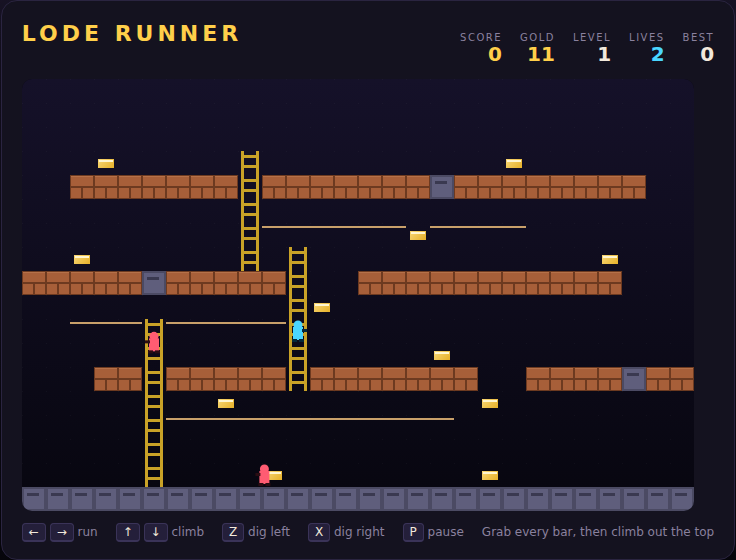
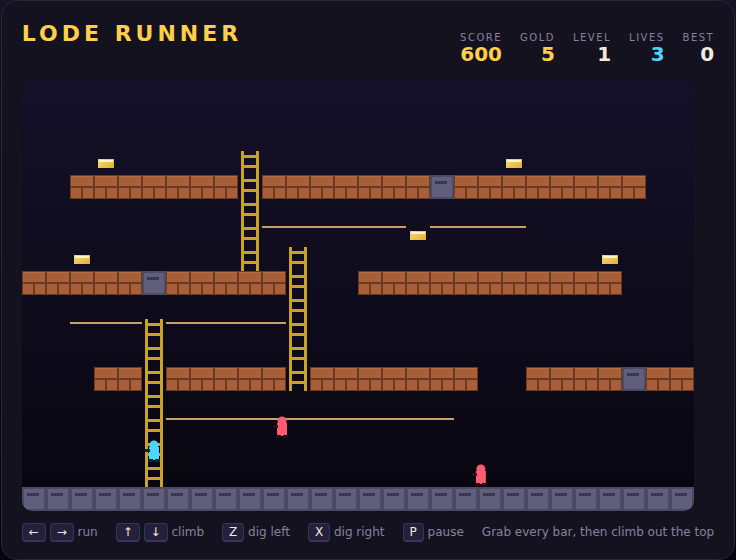
Document Lode Runner and add it to the game browser
- DESIGN.md covering the tile-locked motion model, level format, guard
  routing and the assumptions taken where the brief was open
- README.md with the rules and controls
- Register the game in game-browser/src/assets/games.json and mark it
  Complete in the repo index
- Move level 1's first guard up a floor so the opening is survivable

diff --git a/LodeRunner/game.js b/LodeRunner/game.js
@@ -68,12 +68,12 @@ const LEVELS = [
         '#####@#####H..###########...',
         '...........H$...............',
         '..---H-----H................',
-        '.....H.....H.....$..........',
+        '.....H.....H..G..$..........',
         '...##H#####H#######..####@##',
         '.....H..$..........$........',
         '.....H------------..........',
         '.....H......................',
-        '.P...H....$...G....$.....G..',
+        '.P...H....$........$.....G..',
         '@@@@@@@@@@@@@@@@@@@@@@@@@@@@',
     ],
     [

diff --git a/LodeRunner/DESIGN.md b/LodeRunner/DESIGN.md
@@ -1,0 +1,145 @@
+# Lode Runner — Design
+
+How the code works, why it is shaped this way, and the calls that were made
+where the brief left room for interpretation.
+
+## Concept
+
+A single-screen platform puzzler on a fixed tile grid. The runner has no
+weapon: the only tool is a drill that opens a temporary hole in the brick
+floor either side of them. Guards chase relentlessly, so the game is about
+routing — deciding the order to sweep up the gold, and where to leave a hole
+so the guard chasing you drops into it instead of onto you.
+
+A level is finished when every gold bar has been collected — that reveals the
+escape ladder — and the runner climbs to the top row of the screen.
+
+## Mechanics
+
+| Element | Behaviour |
+|---|---|
+| Brick `#` | Solid, and the only tile that can be drilled |
+| Stone `@` | Solid and undrillable — the frame of every level |
+| Ladder `H` | Climbable up and down; standing on the top tile is supported |
+| Rope `-` | Hang and traverse sideways; press down to let go |
+| Gold `$` | Collected by passing through the tile: +100 |
+| Escape ladder `E` | Inert until the last bar is taken, then a working ladder |
+
+- **Falling.** Anything not standing on a solid tile, a ladder (its own tile or
+  the one below), a rope, or the head of a trapped guard falls. You cannot
+  steer mid-fall — the commitment is what makes a dug hole dangerous to you as
+  well as to the guards.
+- **Digging.** `Z` / `X` drill the brick diagonally below-left / below-right.
+  The drill needs firm ground under your feet and a clear tile above the
+  target, so you cannot dig from a ladder, from a rope, or in mid-air.
+- **Holes heal.** A hole fills back in after `HOLE_TIME` (5 s), and the last
+  30% of that is drawn as the brick growing back. Anything still standing in
+  the tile when it closes is crushed: a guard respawns at its start marker, the
+  runner loses a life.
+- **Trapped guards.** A guard that drops into a hole flounders for `TRAP_TIME`
+  (2.5 s), then climbs out to whichever side is open, preferring the side the
+  runner is on. While it is down there its head is solid ground — running
+  across a trapped guard is a legitimate route.
+- **Guard routing.** Each guard replans with a breadth-first search over the
+  move graph (walk / climb / drop, no digging) whenever it lands on a tile, and
+  takes the first step of the shortest route to the runner's tile. If no route
+  exists it shuffles horizontally toward the runner instead, which is what
+  keeps guards pressing you across a gap they cannot cross.
+- **Scoring.** 100 per gold bar, 500 per level cleared. The best score of the
+  session is kept in `localStorage` under `lode-runner-best`.
+- **Lives.** Three. A death reloads the current level from scratch — gold,
+  guards and holes all reset — but the score carries over.
+
+## Controls
+
+| Key | Action |
+|---|---|
+| ← / → or A / D | Run, climb sideways along a rope |
+| ↑ / ↓ or W / S | Climb a ladder, drop off a rope |
+| Z or `,` | Dig left |
+| X or `.` | Dig right |
+| Space | Start, or restart after a game over |
+| P | Pause / resume |
+
+## Code shape
+
+`game.js` is one classic (non-module) script, matching the other games in this
+repo, so every piece of state is a plain global the Playwright specs can read.
+
+### Tile-locked motion
+
+Entities are never at an arbitrary point on the map: they sit exactly on a
+tile, or they are travelling in a straight line between two adjacent tiles.
+Every decision — which way to run, whether gravity takes over — is made at the
+moment an entity lands on a tile, by `decidePlayer` / `decideGuard`.
+
+`advance(entity, dt, decide, onArrive)` slides an entity toward its target and,
+when it lands, spends the *leftover* time on the next move. That has two
+consequences worth keeping:
+
+- `step(dt)` is exact for any `dt`. There is no per-frame rounding error to
+  accumulate, so the tests can simulate a whole level deterministically.
+- Tile coordinates are whole numbers between moves. This is load-bearing:
+  every grid lookup indexes `grid[r][c]` directly, so an entity left at a
+  fractional coordinate would read `undefined` and walk through the world. The
+  "landed a hair short" branch in `advance` exists to guarantee it, and the
+  regression it fixes was found by the route-finding bot in the test suite.
+
+`step(dt)` slices time into 1/60 s sub-steps so collisions and hole timers are
+sampled at a fixed rate no matter how the browser schedules frames.
+
+### Level format
+
+Each level is 18 rows of 28 characters using the legend above, plus `P` for the
+runner's start and `G` for a guard. `loadLevelData` strips the spawn markers
+out of the playable grid and turns them into entities, so the grid only ever
+holds terrain. Sandbox levels built by the tests go through exactly the same
+path, which is why a spec can exercise one mechanic on a bare floor.
+
+### Rendering
+
+`draw()` repaints from scratch each frame: gradient backdrop, terrain tile by
+tile, hole refill progress, guards, then the runner on top. The hidden escape
+ladder draws nothing until `exitRevealed`, at which point it comes back in a
+different colour from the ordinary ladders so it reads as the way out.
+
+## Testing
+
+`tests/lode-runner.spec.js` drives the real page. Beyond the per-mechanic
+specs, two tests are about the levels rather than the code:
+
+- **Reachability.** For every level, a breadth-first search over the same moves
+  a player has — including "drill the brick below and drop through it" — must
+  reach every gold bar and the top row from the start marker.
+- **Solvability.** A route-finding bot plays the actual game: it replans each
+  frame, holds the same keys a player would, digs where the route calls for it,
+  and has to reach the `won` state having cleared all three levels. It plays
+  the full game in about a second of wall-clock time.
+
+## Assumptions
+
+The brief left these open; the simpler reading was taken each time and is
+recorded here.
+
+1. **Branch name.** The task asked for a branch named after the game
+   (`lode-runner`), but this session's standing instruction is to develop and
+   push only on `claude/loving-euler-h0zmyv`. The stricter instruction won, so
+   the work lives on that branch.
+2. **Three levels.** Enough to show progression and a win state without
+   padding. `LEVELS` is a plain array — appending a fourth needs no code
+   changes, only a layout that passes the reachability spec.
+3. **Guards do not carry gold.** In the original arcade game guards can pick
+   up a bar and drop it later. That is a second inventory to model and to
+   render, and it can strand gold in unreachable places; guards here ignore it.
+4. **Death reloads the whole level.** Gold already banked stays on the
+   scoreboard, but the level resets. Tracking per-bar collection across lives
+   would make the escape condition depend on history rather than the board.
+5. **Guards cannot dig.** True to the original, and it keeps holes as a tool
+   that belongs to the player alone.
+6. **Input priority is up, down, left, right.** When two keys are held, the
+   first legal move in that order wins, so a diagonal press at the foot of a
+   ladder climbs rather than running past it.
+7. **One shared hole timer.** Every hole heals after the same 5 s regardless of
+   depth or what is standing in it.
+8. **No level editor or high-score table.** Only the single best score is
+   persisted, matching the other games in this repo.

diff --git a/LodeRunner/README.md b/LodeRunner/README.md
@@ -1,0 +1,48 @@
+# Lode Runner
+
+A dig-and-collect platform puzzler built with plain HTML5 canvas and
+JavaScript — no build step, no dependencies. Sweep every gold bar off the
+girders while guards hunt you across the level, then climb out the top.
+
+![Lode Runner screenshot](screenshot.png)
+
+## How to play
+
+Open `index.html` in any modern browser. Press **Space** (or click **Start
+Run**) to begin.
+
+| Key | Action |
+|---|---|
+| ← / → or A / D | Run, and move along a rope |
+| ↑ / ↓ or W / S | Climb a ladder, or drop off a rope |
+| Z or `,` | Dig the brick down and to your left |
+| X or `.` | Dig the brick down and to your right |
+| Space | Start, or restart after a game over |
+| P | Pause / resume |
+
+- Collect **every gold bar** on the level and the **escape ladder** appears in
+  green. Climb it to the top row to move on. 100 points a bar, 500 for the
+  level.
+- You have **no weapon**. The drill is the whole game: open a hole in the
+  brickwork and the guard chasing you drops in and flounders for a few
+  seconds. Run across their head while they are down there.
+- **Holes heal over** after about five seconds, and whatever is standing in one
+  when it closes is crushed — a guard respawns at its start, and you lose a
+  life. That includes holes you dug for yourself, so do not linger in one.
+- You **cannot steer while falling**, and you cannot dig from a ladder, from a
+  rope, or in mid-air. Solid grey stone cannot be drilled at all.
+- Three levels, three lives. Your best score is saved in the browser's
+  `localStorage`.
+
+## Development
+
+Lode Runner follows the repo-wide test setup. From the repository root:
+
+```powershell
+npm install
+npx playwright install chromium
+npx playwright test LodeRunner/tests/
+```
+
+See [DESIGN.md](DESIGN.md) for how the tile-locked motion, the guard routing
+and the level format work — and for the assumptions behind the rules.

diff --git a/README.md b/README.md
@@ -113,7 +113,7 @@ For each new game, put it in a new folder. Each game should have its own README.
 | Marble Spiral | [MarbleSpiral/](MarbleSpiral/) | Complete |
 | Barrel Climb | [BarrelClimb/](BarrelClimb/) | Complete |
 | BurgerTime | [BurgerTime/](BurgerTime/) | Complete |
-| Lode Runner | [LodeRunner/](LodeRunner/) | In Progress |
+| Lode Runner | [LodeRunner/](LodeRunner/) | Complete |
 
 ## Playing
 
